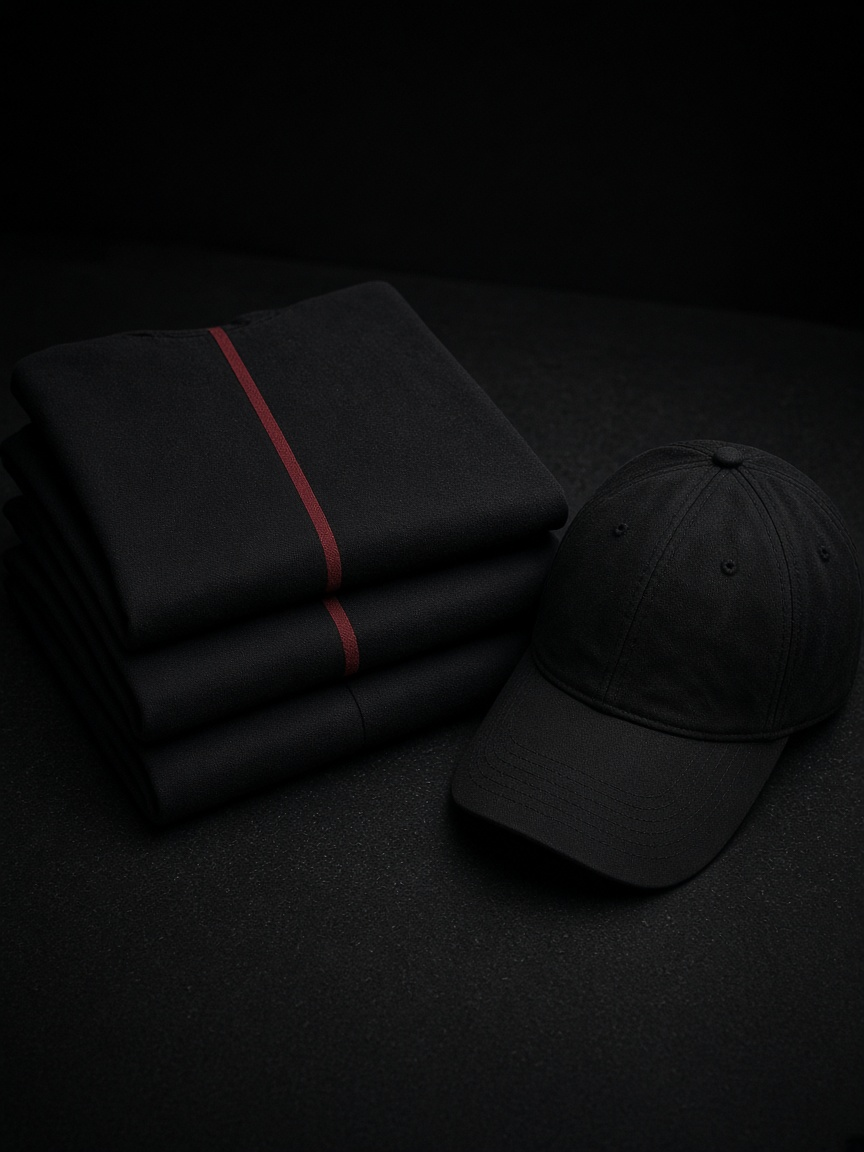
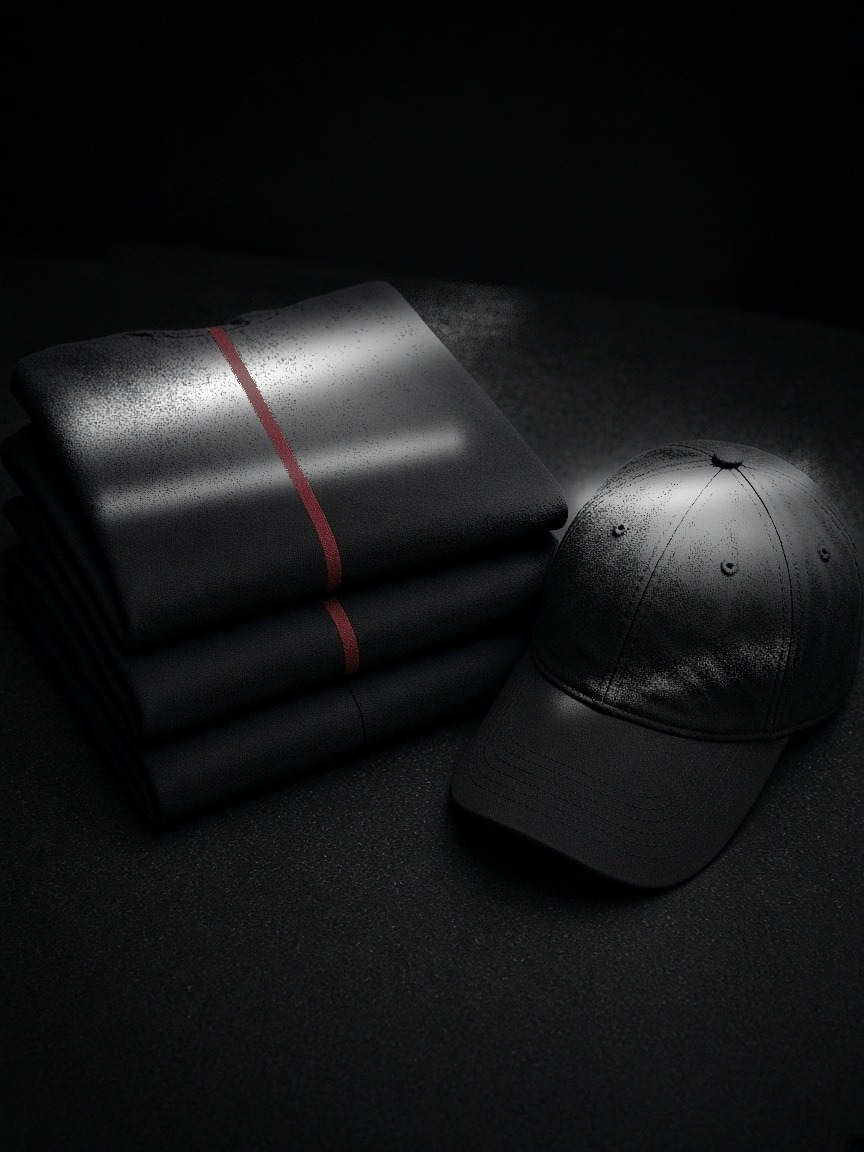
Drop the box around the rain toggle and light the novelty photo.

Changed region(s): [[0.0625, 0.25, 0.5938, 0.4688], [0.625, 0.375, 1.0, 0.5312], [0.625, 0.5625, 0.9062, 0.625]]

diff --git a/Vape City v2.dc.html b/Vape City v2.dc.html
@@ -83,7 +83,7 @@ image-slot, image-slot::part(frame), image-slot::part(image) { touch-action: pan
           <a href="https://www.google.com/maps/dir/?api=1&amp;destination=3895%20Cherokee%20St%20NW%20Ste%20330%2C%20Kennesaw%2C%20GA%2030144" target="_blank" rel="noopener" style="display:inline-flex;align-items:center;min-height:52px;padding:12px 26px;background:rgba(0,0,0,0.4);color:#ebe7e1;border:1px solid rgba(235,231,225,0.5);text-decoration:none;font-family:'Barlow Condensed', sans-serif;font-weight:600;font-size:17px;letter-spacing:0.18em;text-transform:uppercase;transition:border-color .25s" style-hover="border-color:#ebe7e1;color:#fff">Get directions</a>
         </div>
       </div>
-      <button type="button" role="switch" aria-checked="{{ rainAria }}" onClick="{{ toggleRain }}" style="display:flex;align-items:center;gap:12px;background:rgba(0,0,0,0.45);border:1px solid rgba(235,231,225,0.25);color:#ebe7e1;padding:10px 14px;cursor:pointer;min-height:48px;text-align:left;border-radius:2px">
+      <button type="button" role="switch" aria-checked="{{ rainAria }}" onClick="{{ toggleRain }}" style="display:flex;align-items:center;gap:12px;background:transparent;border:0;color:#ebe7e1;padding:10px 14px;cursor:pointer;min-height:48px;text-align:left;border-radius:2px">
         <span style="position:relative;width:40px;height:22px;border-radius:11px;flex:none;background:{{ trackBg }};transition:background .25s"><span style="position:absolute;top:3px;left:{{ knobLeft }};width:16px;height:16px;border-radius:50%;background:#ebe7e1;transition:left .25s"></span></span>
         <span style="font-family:'Cormorant Garamond', Georgia, serif;font-style:italic;font-weight:500;font-size:17px;line-height:1.25">{{ rainLine }}</span>
       </button>
@@ -329,7 +329,7 @@ image-slot, image-slot::part(frame), image-slot::part(image) { touch-action: pan
         <div>Sat–Sun 12pm–8pm</div>
       </div>
       <div style="display:flex;flex-direction:column;gap:18px;align-items:flex-start">
-        <button type="button" role="switch" aria-checked="{{ rainAria }}" onClick="{{ toggleRain }}" style="display:flex;align-items:center;gap:12px;background:transparent;border:1px solid rgba(235,231,225,0.25);color:#ebe7e1;padding:10px 14px;cursor:pointer;min-height:48px;text-align:left;border-radius:2px">
+        <button type="button" role="switch" aria-checked="{{ rainAria }}" onClick="{{ toggleRain }}" style="display:flex;align-items:center;gap:12px;background:transparent;border:0;color:#ebe7e1;padding:10px 14px;cursor:pointer;min-height:48px;text-align:left;border-radius:2px">
           <span style="position:relative;width:40px;height:22px;border-radius:11px;flex:none;background:{{ trackBg }};transition:background .25s"><span style="position:absolute;top:3px;left:{{ knobLeft }};width:16px;height:16px;border-radius:50%;background:#ebe7e1;transition:left .25s"></span></span>
           <span style="font-family:'Cormorant Garamond', Georgia, serif;font-style:italic;font-weight:500;font-size:16px;line-height:1.25">{{ rainLine }}</span>
         </button>

diff --git a/v2/index.html b/v2/index.html
@@ -83,7 +83,7 @@ image-slot, image-slot::part(frame), image-slot::part(image) { touch-action: pan
           <a href="https://www.google.com/maps/dir/?api=1&amp;destination=3895%20Cherokee%20St%20NW%20Ste%20330%2C%20Kennesaw%2C%20GA%2030144" target="_blank" rel="noopener" style="display:inline-flex;align-items:center;min-height:52px;padding:12px 26px;background:rgba(0,0,0,0.4);color:#ebe7e1;border:1px solid rgba(235,231,225,0.5);text-decoration:none;font-family:'Barlow Condensed', sans-serif;font-weight:600;font-size:17px;letter-spacing:0.18em;text-transform:uppercase;transition:border-color .25s" style-hover="border-color:#ebe7e1;color:#fff">Get directions</a>
         </div>
       </div>
-      <button type="button" role="switch" aria-checked="{{ rainAria }}" onClick="{{ toggleRain }}" style="display:flex;align-items:center;gap:12px;background:rgba(0,0,0,0.45);border:1px solid rgba(235,231,225,0.25);color:#ebe7e1;padding:10px 14px;cursor:pointer;min-height:48px;text-align:left;border-radius:2px">
+      <button type="button" role="switch" aria-checked="{{ rainAria }}" onClick="{{ toggleRain }}" style="display:flex;align-items:center;gap:12px;background:transparent;border:0;color:#ebe7e1;padding:10px 14px;cursor:pointer;min-height:48px;text-align:left;border-radius:2px">
         <span style="position:relative;width:40px;height:22px;border-radius:11px;flex:none;background:{{ trackBg }};transition:background .25s"><span style="position:absolute;top:3px;left:{{ knobLeft }};width:16px;height:16px;border-radius:50%;background:#ebe7e1;transition:left .25s"></span></span>
         <span style="font-family:'Cormorant Garamond', Georgia, serif;font-style:italic;font-weight:500;font-size:17px;line-height:1.25">{{ rainLine }}</span>
       </button>
@@ -329,7 +329,7 @@ image-slot, image-slot::part(frame), image-slot::part(image) { touch-action: pan
         <div>Sat–Sun 12pm–8pm</div>
       </div>
       <div style="display:flex;flex-direction:column;gap:18px;align-items:flex-start">
-        <button type="button" role="switch" aria-checked="{{ rainAria }}" onClick="{{ toggleRain }}" style="display:flex;align-items:center;gap:12px;background:transparent;border:1px solid rgba(235,231,225,0.25);color:#ebe7e1;padding:10px 14px;cursor:pointer;min-height:48px;text-align:left;border-radius:2px">
+        <button type="button" role="switch" aria-checked="{{ rainAria }}" onClick="{{ toggleRain }}" style="display:flex;align-items:center;gap:12px;background:transparent;border:0;color:#ebe7e1;padding:10px 14px;cursor:pointer;min-height:48px;text-align:left;border-radius:2px">
           <span style="position:relative;width:40px;height:22px;border-radius:11px;flex:none;background:{{ trackBg }};transition:background .25s"><span style="position:absolute;top:3px;left:{{ knobLeft }};width:16px;height:16px;border-radius:50%;background:#ebe7e1;transition:left .25s"></span></span>
           <span style="font-family:'Cormorant Garamond', Georgia, serif;font-style:italic;font-weight:500;font-size:16px;line-height:1.25">{{ rainLine }}</span>
         </button>
